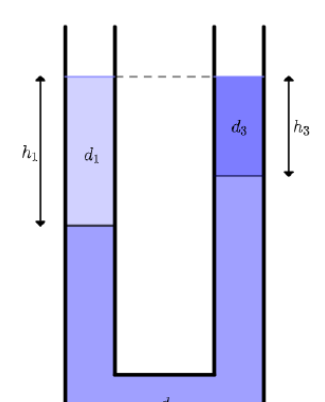
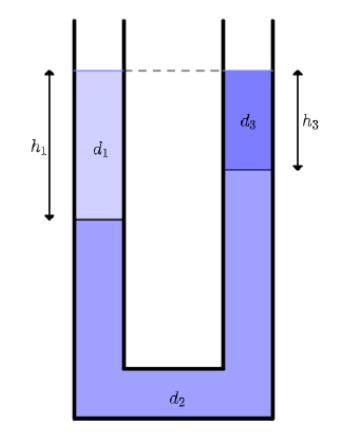
fix: dr_2026 figure Q17 (tubo a U completo con d2), Q23 (specchio, senza testo), Q24 (cariche A-B-C-D complete); ipho_2026_theory T3-C IT: Q_c calore sottratto alla sorgente fredda

Changed region(s): [[0.1846, 0.0299, 0.8308, 1.0], [0.0615, 0.1493, 0.1538, 0.5672], [0.8615, 0.1493, 0.9538, 0.4478]]

diff --git a/content/prove/ipho_2026_theory.md b/content/prove/ipho_2026_theory.md
@@ -627,7 +627,7 @@ La Figura 3b mostra il diagramma $H$–$T$ del ciclo frigorifero di Carnot $1 \r
 $T_h$: temperatura della sorgente calda\
 $T_c$: temperatura della sorgente fredda\
 $Q_h$: valore assoluto del calore ceduto alla sorgente calda\
-$Q_c$: valore assoluto del calore assorbito dalla sorgente fredda
+$Q_c$: valore assoluto del calore sottratto alla sorgente fredda
 
 **T3-C1 [0.2 pt].** Segna $T_h$ e $T_c$ sull'asse $T$ del diagramma $H$–$T$. Indica anche le trasformazioni in cui avvengono, rispettivamente, gli scambi $Q_h$ e $Q_c$.
 
